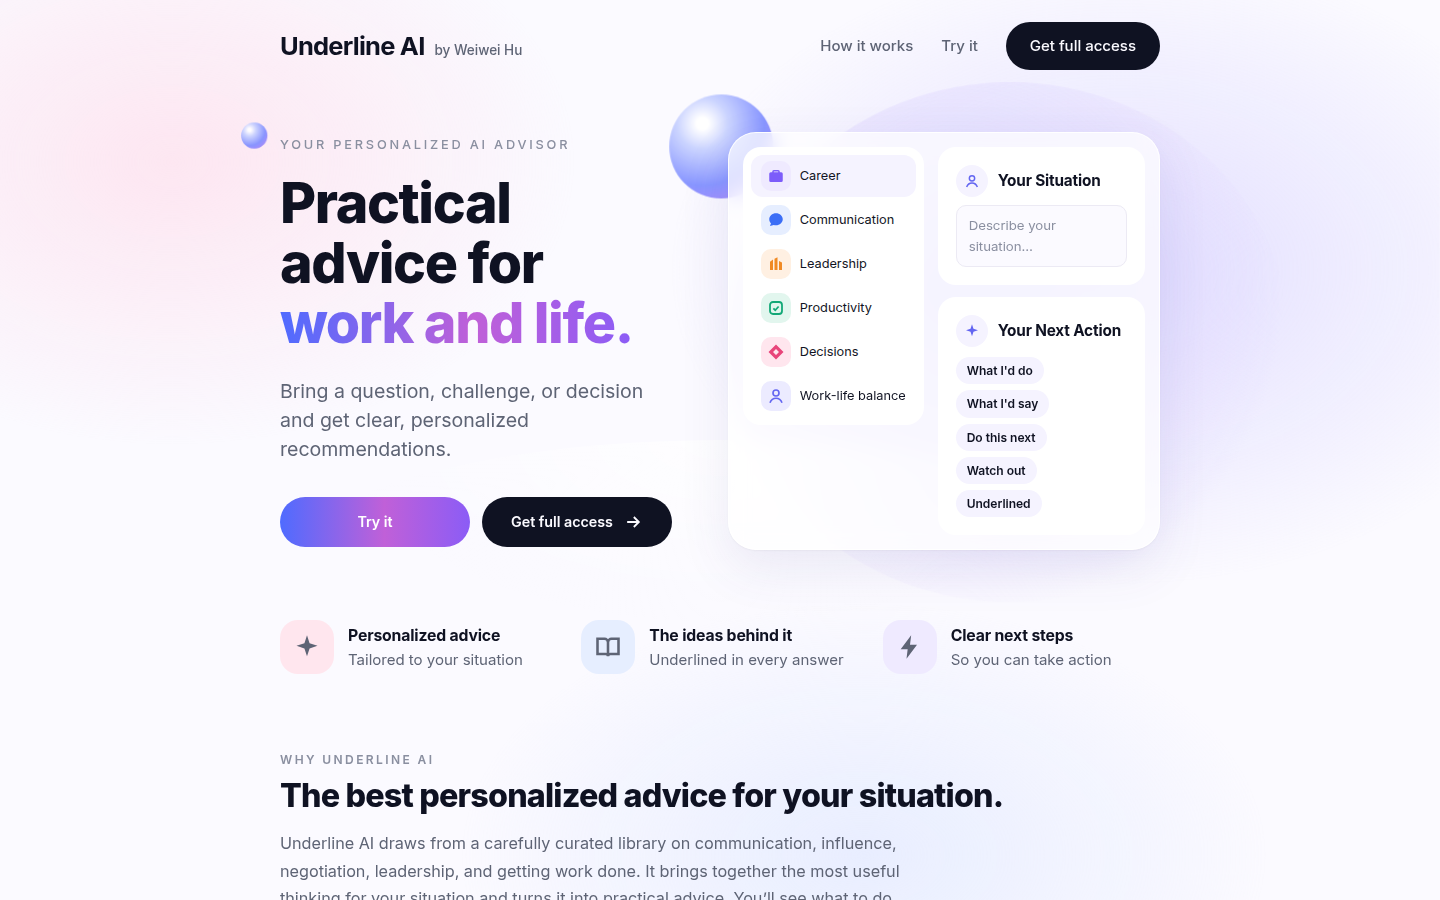
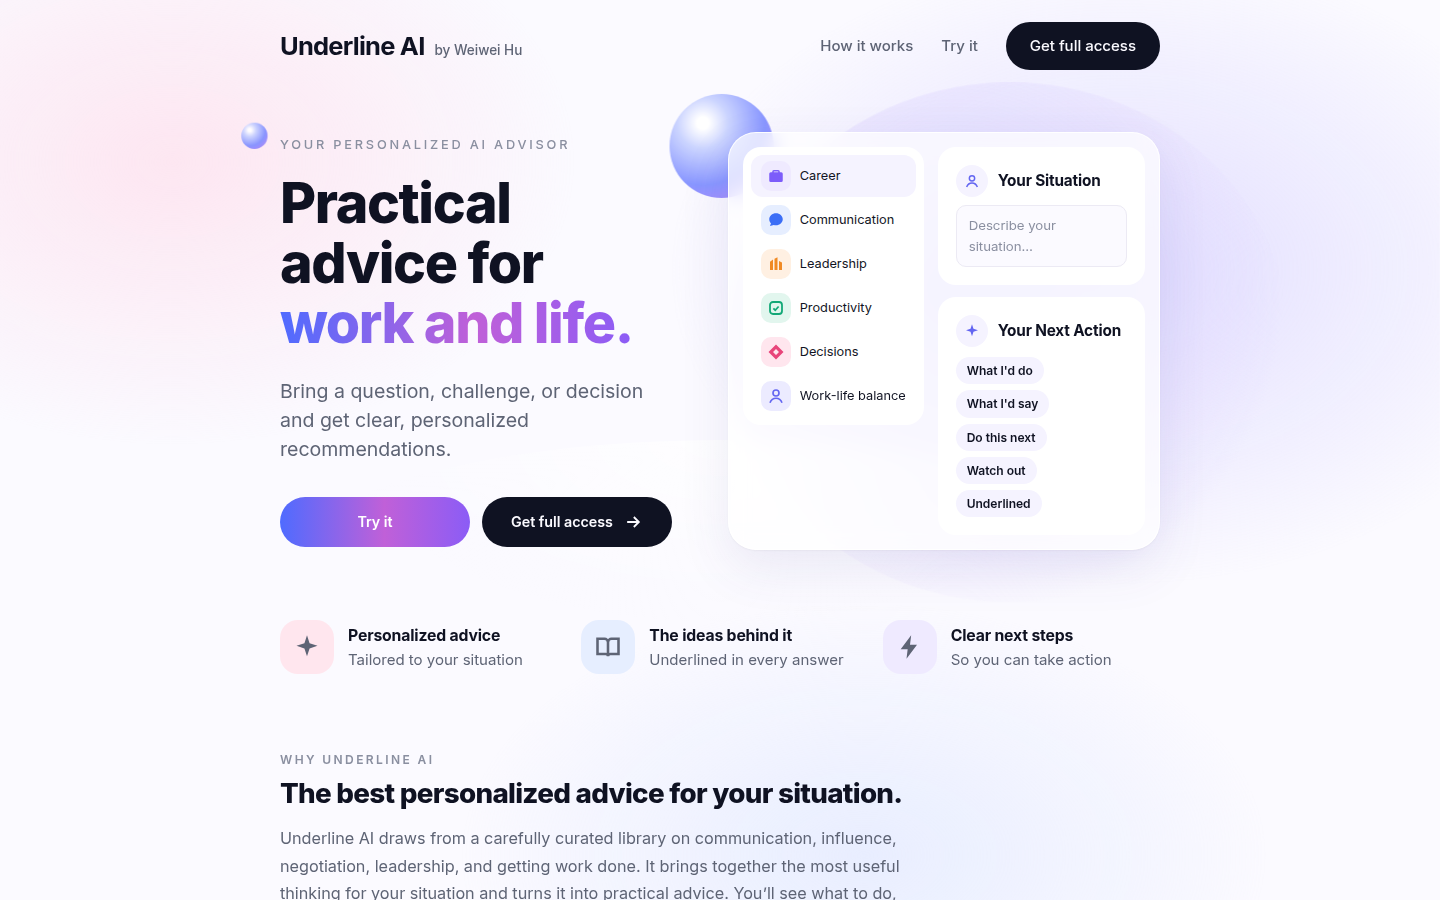
Simpler examples across five areas; one-line headings; See Underline AI in action
Claude-Session: https://claude.ai/code/session_01N7N6w9NyR9iyFeuC71Pzud

Changed region(s): [[0.1875, 0.8711, 0.6875, 1.0]]

diff --git a/index.html b/index.html
@@ -175,7 +175,7 @@ footer a svg{width:15px;height:15px}
 .feat b{font-size:1.05rem!important}
 .feat{gap:14px!important}
 .feat .ic{width:54px!important;height:54px!important}
-.block h2{font-size:clamp(1.6rem,3vw,2.15rem)!important;text-wrap:balance}
+.block h2{font-size:clamp(1.5rem,2.6vw,1.85rem)!important;text-wrap:balance}
 .wrap{max-width:960px!important}
 .logo{white-space:nowrap}
 @media (max-width:520px){.logo{font-size:1.4rem}.logo .by{font-size:.8rem!important;margin-left:6px!important}.links .btn.dark{padding:10px 16px;font-size:.9rem}.btn.big{width:100%!important}}
@@ -343,7 +343,7 @@ html{overflow-x:hidden}
 
   <section class="block" id="try">
     <p class="kicker">Try it</p>
-    <h2>See what you'd get.</h2>
+    <h2>See Underline AI in action.</h2>
     <div class="trygrid">
       <div class="panel">
         <p class="plabel">Your situation</p>
@@ -385,7 +385,7 @@ html{overflow-x:hidden}
     <button class="glater" type="button">Maybe later</button>
   </div>
 </dialog>
-<script type="application/json" id="tryData">{"samples": [{"label": "Pitching an idea", "sit": "I want to pitch moving our weekly status meeting to a written update. My director likes the meeting because she hears from everyone. I get 10 minutes in our team leads sync on Tuesday.", "goal": "She agrees to try it for a month", "ctx": "We have 9 people in the meeting. It runs 60 minutes and most of it is people reading updates out loud.", "title": "Pitch a written update instead of the meeting", "do": "Pitch a one-month trial on Tuesday: written updates by Monday noon, and the meeting cut to 20 minutes for questions and decisions. Lead with what your director keeps, which is hearing from everyone, in more detail.", "say_label": "Open your 10 minutes with", "say": "I know this meeting matters to you because it's where you hear from everyone. I want to keep that and make it better. Right now it's 9 of us for an hour, and most of it is reading updates out loud. Can we try one month where everyone posts a short written update by Monday noon? Then we use 20 minutes for questions and decisions. You'd hear from all 9 people, in more detail. After four weeks, we look at time saved and decisions made, and you decide.", "und": [{"t": "Likeable Badass", "l": "Frame your ask around what the other person wants.", "s": "Alison Fragale, Likeable Badass"}, {"t": "Meeting Design", "l": "Give every recurring meeting a clear job, or change it.", "s": "Kevin M. Hoffman, Meeting Design"}, {"t": "Smart Brevity", "l": "Send status in writing so meetings can skip it.", "s": "Jim VandeHei, Mike Allen and Roy Schwartz, Smart Brevity"}, {"t": "PDCA cycle", "l": "Test a change small, measure it, then decide.", "s": "W. Edwards Deming (PDCA cycle)"}], "next": ["Today, write one line on what this meeting is for, keeping your director informed, and check whether reading updates aloud still does that job.", "Before Tuesday, write a sample update from your own team as five short items, most important first, so she can see what she'd get.", "On Tuesday, say the ask in your first sentence, then give the cost: 9 people for an hour is 9 hours a week.", "In week 4, bring her two numbers, hours saved and decisions made, and ask whether to keep it."], "watch": {"text": "Don't keep this meeting just because it's on the calendar. If no one can say its job, change it.", "t": "Meeting Design", "s": "Kevin M. Hoffman, Meeting Design"}}, {"label": "Too much on my plate", "sit": "I have 14 open tasks, two launches this month, and my boss just asked me to also own the hiring plan. I'm working late every night and still falling behind.", "goal": "Get back to a normal workweek without dropping anything important", "ctx": "No one on my team can take the launches. The hiring plan is due in three weeks.", "title": "Get back control of a full plate", "do": "Before you accept the hiring plan, take your boss a one-page list of everything you're on, sorted by urgent and important, and ask which item should move or who can take it.", "say_label": "Say this to your boss", "say": "I want to do the hiring plan well, so I need your help on priorities. Right now I'm on two launches this month and 12 other tasks. Here's the list, sorted by what's urgent and what matters most. If I take the hiring plan now, something on this list slips. Which one should move? Or could the plan start after the launches?", "und": [{"t": "Workplace SOPs", "l": "Say no by showing what slips and letting them choose.", "s": "Weiwei Hu, Workplace SOPs (Saying no, Setting priorities)"}, {"t": "Eisenhower matrix", "l": "Sort work by urgent and important before you take on more.", "s": "Eisenhower matrix"}, {"t": "Automate Your Busywork", "l": "Finish your most important task before anything else.", "s": "Aytekin Tank, Automate Your Busywork"}], "next": ["Today, sort all 14 tasks plus the hiring plan into four boxes: do now, book time, hand off, drop.", "Tomorrow, show the list to your boss and ask which item moves to make room for the hiring plan.", "Once the hiring plan is yours, agree in writing what done looks like and the help you'll get.", "Each morning, write the day's most important task on a note and finish it before you open email."], "watch": {"text": "Don't quietly say yes and work late to absorb the hiring plan. If you hide the trade-off, it becomes your problem alone.", "t": "Workplace SOPs", "s": "Weiwei Hu, Workplace SOPs (Saying no, Setting priorities)"}}, {"label": "Presenting to executives", "sit": "I have 10 minutes with our VP and the leadership team on Thursday to present Q3 results for my team. Revenue beat target by 8% but customer churn went up from 4% to 6%.", "goal": "They leave confident in my team and approve one more headcount", "ctx": "The VP is known for cutting people off after two minutes if they don't get to the point.", "title": "Present mixed Q3 results to the VP", "do": "Open with one sentence that covers both numbers and your ask, then use the rest of the 10 minutes to show you understand the churn rise and how the new headcount fixes it.", "say_label": "Open with", "say": "Q3 revenue beat target by 8%. Churn went up from 4% to 6%, which is about [X] customers, and we know why: [cause]. I'm asking for one more person in Q4 to fix it. That person would [task], which should bring churn back to [target] by [date]. I'll show you the three numbers behind this, then the plan.", "und": [{"t": "The Pyramid Principle", "l": "Lead with the answer, then give the support.", "s": "Barbara Minto, The Pyramid Principle"}, {"t": "The Pyramid Principle", "l": "Tell it as situation, complication, question and answer.", "s": "Barbara Minto, The Pyramid Principle"}, {"t": "Talk Like TED", "l": "Tie every number to something people already understand.", "s": "Carmine Gallo, Talk Like TED"}, {"t": "Pitch Anything", "l": "Answer detail questions briefly, then return to the main point.", "s": "Oren Klaff, Pitch Anything"}], "next": ["Today, write your first sentence so it holds the result and the ask, before any background.", "Before Thursday, turn the 2-point churn rise into something people feel, such as [X] customers or [$] a year.", "Before Thursday, cut the deck to four beats: revenue beat target, churn rose, what that means, and how one more person fixes it.", "On Thursday, if they dig into detail, give the top-line answer and offer the rest in writing afterward."], "watch": {"text": "Don't build up to your point with background. Your VP stops listening after two minutes, before you get there.", "t": "The Pyramid Principle", "s": "Barbara Minto, The Pyramid Principle"}}, {"label": "Difficult colleague", "sit": "A peer on the sales team keeps promising clients features my team hasn't agreed to build. Last week it happened again and my engineers had to rush a fix over the weekend.", "goal": "He checks with me before promising anything", "ctx": "We report to different directors. I've mentioned it once in passing and he laughed it off.", "title": "Stop a peer promising unbuilt features", "do": "Ask him for a 20-minute one-on-one this week. Give the facts from last week, the cost to your team and his clients, and one clear request: check with you before promising anything that isn't on the roadmap.", "say_label": "Say this in your one-on-one", "say": "Thanks for making time. I want to talk about the [client] promise last week. My team hadn't agreed to build that, so two engineers worked the weekend to ship a fix. I'm worried that rushed work like that puts your client at risk if it breaks. Can you check with me before promising anything that isn't on the roadmap? I'll get back to you within a day, so you're never left waiting on a deal.", "und": [{"t": "Asserting Yourself", "l": "Describe the facts, name the impact, make one specific request.", "s": "Sharon and Gordon Bower, Asserting Yourself (DESC script)"}, {"t": "Likeable Badass", "l": "Show the other person what they gain from changing.", "s": "Alison Fragale, Likeable Badass"}, {"t": "Automate Your Busywork", "l": "Fix the broken handoff before blaming the person.", "s": "Aytekin Tank, Automate Your Busywork"}, {"t": "Workplace SOPs", "l": "Agree out loud, then confirm it in writing.", "s": "Weiwei Hu, Workplace SOPs (Closing the loop in writing)"}], "next": ["Today, write down the facts without blame: the date, the feature he promised and the weekend hours your engineers spent.", "Before you meet, write one sentence on how checking first helps him: fewer broken promises to his clients.", "In the meeting, offer a simple step that fixes the handoff: a 10-minute weekly check on upcoming deals.", "Within an hour of the meeting, send a short note of what you agreed and ask him to confirm."], "watch": {"text": "Don't open with blame or labels like \"you always\". Start with the facts from last week.", "t": "Asserting Yourself", "s": "Sharon and Gordon Bower, Asserting Yourself (DESC script)"}}, {"label": "Asking for a raise", "sit": "I got an offer for a senior analyst role at another company: 15% more pay, fully remote. I like my current team and would stay if they matched part of it. I have a 1:1 with my manager Friday.", "goal": "Get a raise or a clear path to promotion without burning the relationship", "ctx": "Last review I was rated 'exceeds'. Promotions here happen in March.", "title": "Use an outside offer to ask for a raise", "do": "In Friday's 1:1, open with wanting to stay, share the offer briefly, and give your manager three options you'd accept: a raise now, a written March promotion plan with a smaller raise, or a mix.", "say_label": "Say this on Friday", "say": "Thanks for making time. I like this team and I want to stay. I want to be upfront: I've had an offer for a senior analyst role at 15% more, fully remote. This year I [top result], and my last review was exceeds. Any of these would keep me here: a [X]% raise now, a written plan for promotion in March with a [Y]% raise now, or [option three]. Which works best for you, and when could we know?", "und": [{"t": "Own Your Career", "l": "Open with thanks, ask in the middle, close warmly.", "s": "Michela Allocca, Own Your Career"}, {"t": "Likeable Badass", "l": "Move first, with options you'd be happy to get.", "s": "Alison Fragale, Likeable Badass"}, {"t": "CAR summary method", "l": "Back your ask with results that have numbers.", "s": "CAR summary method (Weiwei Hu's 13 frameworks)"}, {"t": "AI Management Toolkit", "l": "Weigh each option by how easy it is to undo.", "s": "Weiwei Hu, AI Management Toolkit (option comparison template)"}], "next": ["Before Friday, write your two or three biggest results this year, each with a number.", "Before Friday, set three options you'd be happy with, so your numbers set the starting point.", "On Friday, open with thanks and wanting to stay, ask in the middle, close warmly, then stop talking.", "Before you answer the other company, compare staying and leaving on upside, risk and how easy each is to undo."], "watch": {"text": "Don't fill the silence after you ask. Let it sit and let your manager answer.", "t": "Own Your Career", "s": "Michela Allocca, Own Your Career"}}]}</script>
+<script type="application/json" id="tryData">{"samples": [{"label": "Career: Asking for a raise", "sit": "I had a strong year and want to ask for a raise. My review with my manager is next Friday.", "goal": "Get a raise of about 10%", "ctx": "I led two projects that finished on time and trained two new hires.", "title": "Ask for a raise at your review", "do": "In Friday's review, open with thanks, share your two biggest results with numbers, then name a range and stop talking.", "say_label": "Say this on Friday", "say": "Thanks for your support this year. I've loved leading the two projects, and both finished on time. I also trained our two new hires, who now work on their own. Based on that, I'd like to talk about a raise of 10 to 12%. What would it take to get there?", "next": ["Before Friday, write your two biggest results, each with a number.", "On Friday, open with thanks, make the ask in the middle and close on a warm note.", "From next week, note your wins every Friday, so next year's ask is easier."], "watch": {"text": "Don't fill the silence after you ask for the raise. Let it sit.", "t": "Own Your Career", "s": "Michela Allocca, Own Your Career"}, "und": [{"t": "Own Your Career", "l": "Open with thanks, ask in the middle, close warmly.", "s": "Michela Allocca, Own Your Career"}, {"t": "CAR summary method", "l": "Back your ask with results that have numbers.", "s": "CAR summary method (Weiwei Hu's 13 frameworks)"}, {"t": "Likeable Badass", "l": "Name your number first, so it sets the starting point.", "s": "Alison Fragale, Likeable Badass"}]}, {"label": "Communication: Project delay", "sit": "I have five minutes at Monday's leadership meeting to update them on a project that is two weeks late.", "goal": "They trust the new date and keep confidence in my team", "ctx": "A vendor caused the delay. We have a fix and a new date.", "title": "Update leaders on a late project", "do": "Open with the new date and your fix in one sentence, give the cause in one line, then stop and take questions.", "say_label": "Open with", "say": "Quick update: [project] will launch on [new date], two weeks later than planned. A vendor delay caused it, and we've already fixed it by [fix]. I'm confident in the new date, and I'll send a short update every Friday until launch. Happy to take questions.", "next": ["Before Monday, write your first sentence with the new date and the fix.", "Add one line on the risk that's left and the evidence the fix works.", "Every Friday until launch, send leadership a short written update."], "watch": {"text": "Don't build up to the new date with the vendor story. Busy people stop listening before you get there.", "t": "The Pyramid Principle", "s": "Barbara Minto, The Pyramid Principle"}, "und": [{"t": "The Pyramid Principle", "l": "Lead with the answer, then give the support.", "s": "Barbara Minto, The Pyramid Principle"}, {"t": "AI Management Toolkit", "l": "Pair every risk with evidence and one fix.", "s": "Weiwei Hu, AI Management Toolkit (feedback scripts)"}, {"t": "Smart Brevity", "l": "Make the point, then stop talking.", "s": "Jim VandeHei, Mike Allen and Roy Schwartz, Smart Brevity"}]}, {"label": "Productivity: Too much work", "sit": "I have too many tasks, two deadlines this month, and my boss just gave me another project. I'm working late every night.", "goal": "Get back to normal hours without dropping anything important", "ctx": "No one else can take my deadlines.", "title": "Get back control of a full plate", "do": "Before you start the new project, show your boss your task list sorted by urgent and important, and ask what should move.", "say_label": "Say this to your boss", "say": "I want to do the new project well, so I need your help with priorities. Here's everything I'm on, sorted by what's urgent and what matters most. If I take this on now, something here slips. Which one should move?", "next": ["Today, sort every task into four boxes: do now, book time, hand off, drop.", "Tomorrow, show your boss the list and ask which item should move.", "Each morning, write your most important task on a note and finish it before email."], "watch": {"text": "Don't quietly say yes and work late to absorb the new project. If you hide the trade-off, it becomes your problem alone.", "t": "Workplace SOPs", "s": "Weiwei Hu, Workplace SOPs (Saying no, Setting priorities)"}, "und": [{"t": "Workplace SOPs", "l": "Say no by showing what slips and letting them choose.", "s": "Weiwei Hu, Workplace SOPs (Saying no, Setting priorities)"}, {"t": "Eisenhower matrix", "l": "Sort work by urgent and important before you take on more.", "s": "Eisenhower matrix"}, {"t": "Automate Your Busywork", "l": "Finish your most important task before anything else.", "s": "Aytekin Tank, Automate Your Busywork"}]}, {"label": "Decisions: Two job offers", "sit": "I have two job offers. One pays 20% more. The other has a better manager and more room to learn.", "goal": "Pick the one that's better for the next three years", "ctx": "I need to answer both by Friday.", "title": "Choose between two job offers", "do": "Score both offers on what you'll learn, what they pay and how they fit what you value, then ask each hiring manager one question before Friday.", "say_label": "Ask each hiring manager", "say": "Thanks again for the offer. I'm excited about it. Before I decide, could I ask one thing? What would success look like in my first year, and how would you help me grow? I'll get back to you by Friday.", "next": ["Today, rank each offer on learning, pay and how it fits your values.", "By Wednesday, ask each hiring manager what success looks like in year one.", "Before you decide, write where you want to be in three years, and pick the job that gets you closer."], "watch": {"text": "Don't lower your three-year goal to match today's choice. Pick the job that closes more of the gap.", "t": "The Fifth Discipline", "s": "Peter Senge, The Fifth Discipline (personal mastery)"}, "und": [{"t": "Own Your Career", "l": "Judge a job by what it teaches and what it pays.", "s": "Michela Allocca, Own Your Career"}, {"t": "Own Your Career", "l": "Interview them as much as they interview you.", "s": "Michela Allocca, Own Your Career"}, {"t": "The Fifth Discipline", "l": "Hold your goal next to today's reality, then close the gap.", "s": "Peter Senge, The Fifth Discipline (personal mastery)"}]}, {"label": "Work-life balance: Evening messages", "sit": "I answer work messages at night and on weekends, and I'm tired all the time.", "goal": "Stop working evenings without letting my team down", "ctx": "My manager sometimes messages late but has never said I must reply.", "title": "Stop answering messages at night", "do": "Set your working hours, tell your manager and team when you're reachable, and agree what counts as urgent enough to call.", "say_label": "Say this to your manager", "say": "I want to be at my best during the day, so I'm going to stop checking messages after 7 pm and on weekends. If something is urgent, please call me and I'll pick up. Does that work for you? And what would you count as urgent?", "next": ["This week, decide your working hours and put one personal plan on each day's list.", "Tell your team when you check messages, and turn off alerts outside those hours.", "After you talk, send your manager a short note of your hours and what counts as urgent."], "watch": {"text": "Don't answer every message as it comes in, even at night. Constant checking eats your rest.", "t": "Automate Your Busywork", "s": "Aytekin Tank, Automate Your Busywork"}, "und": [{"t": "Own Your Career", "l": "Set your available hours and tell people.", "s": "Michela Allocca, Own Your Career"}, {"t": "Automate Your Busywork", "l": "Choose set times to check messages.", "s": "Aytekin Tank, Automate Your Busywork"}, {"t": "Workplace SOPs", "l": "Agree out loud, then confirm it in writing.", "s": "Weiwei Hu, Workplace SOPs (Closing the loop in writing)"}]}]}</script>
 <script>
 (function(){
   var D=JSON.parse(document.getElementById('tryData').textContent);
